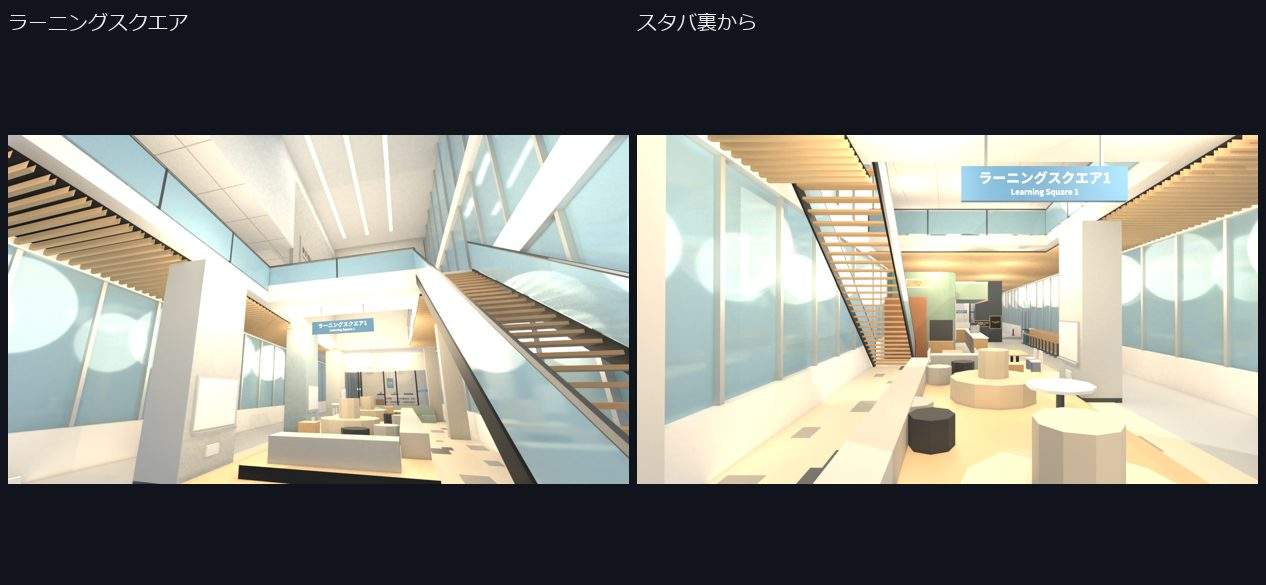
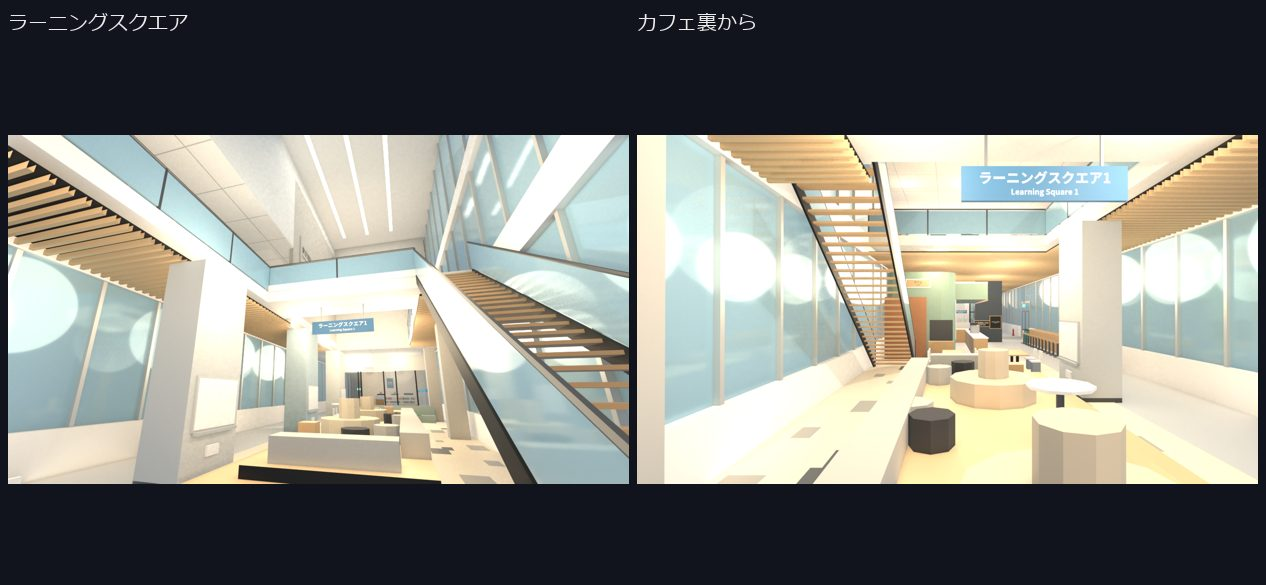
docs: 共創棟の Unity 内の見え方を撮る視点を足し、変更前後の画像を追加する。カフェ裏からのラベルを直す。

diff --git a/unity/KatsushikaCampusDays/Assets/Scripts/Editor/ScenePreview.cs b/unity/KatsushikaCampusDays/Assets/Scripts/Editor/ScenePreview.cs
@@ -418,6 +418,46 @@ namespace KCD.Editor
                 Fov = 0f,
                 Note = "図書館 1F の入口から閲覧席",
             },
+            new Shot
+            {
+                Name = "shot_kyoso_entrance",
+                Space = Frame.Interior,
+                Building = "kyoso",
+                Eye = new Vector3(1.5f, 1.65f, 4.6f),
+                Look = new Vector3(-22.0f, 2.4f, 12.6f),
+                Fov = 0f,
+                Note = "共創棟 1F の入口から奥",
+            },
+            new Shot
+            {
+                Name = "shot_kyoso_ls",
+                Space = Frame.Interior,
+                Building = "kyoso",
+                Eye = new Vector3(-14.8f, 1.7f, 11.6f),
+                Look = new Vector3(-30.0f, 6.5f, 7.2f),
+                Fov = 0f,
+                Note = "共創棟 1F のラーニングスクエアから階段",
+            },
+            new Shot
+            {
+                Name = "shot_kyoso_lounge2f",
+                Space = Frame.Interior,
+                Building = "kyoso",
+                Eye = new Vector3(-15.0f, 7.0f, 13.4f),
+                Look = new Vector3(-6.0f, 6.1f, 7.0f),
+                Fov = 0f,
+                Note = "共創棟 2F のラウンジ",
+            },
+            new Shot
+            {
+                Name = "shot_kyoso_store",
+                Space = Frame.Interior,
+                Building = "kyoso",
+                Eye = new Vector3(-36.5f, 1.65f, 10.5f),
+                Look = new Vector3(-46.0f, 1.2f, 8.5f),
+                Fov = 0f,
+                Note = "共創棟 1F の売店",
+            },
         };
 
         /// <summary>
